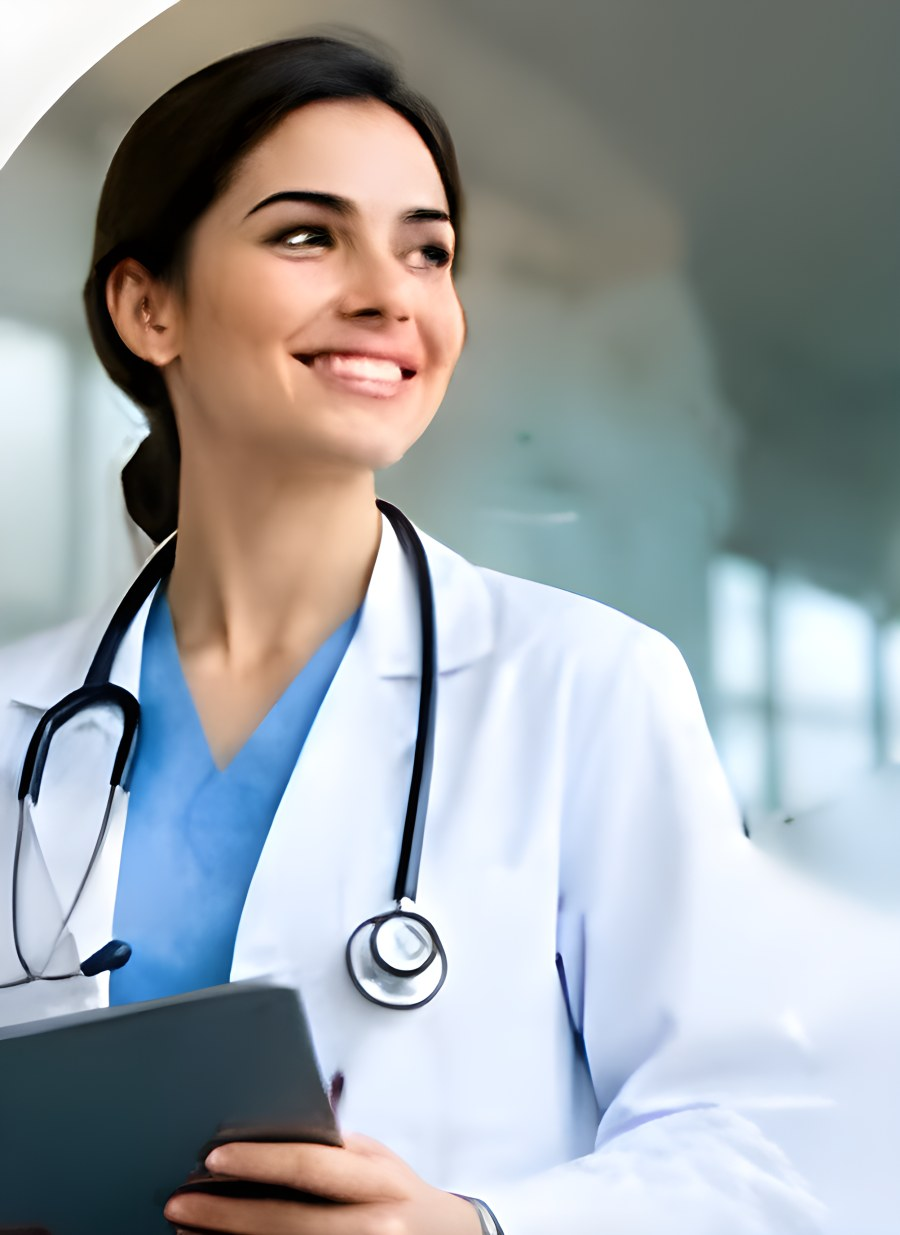
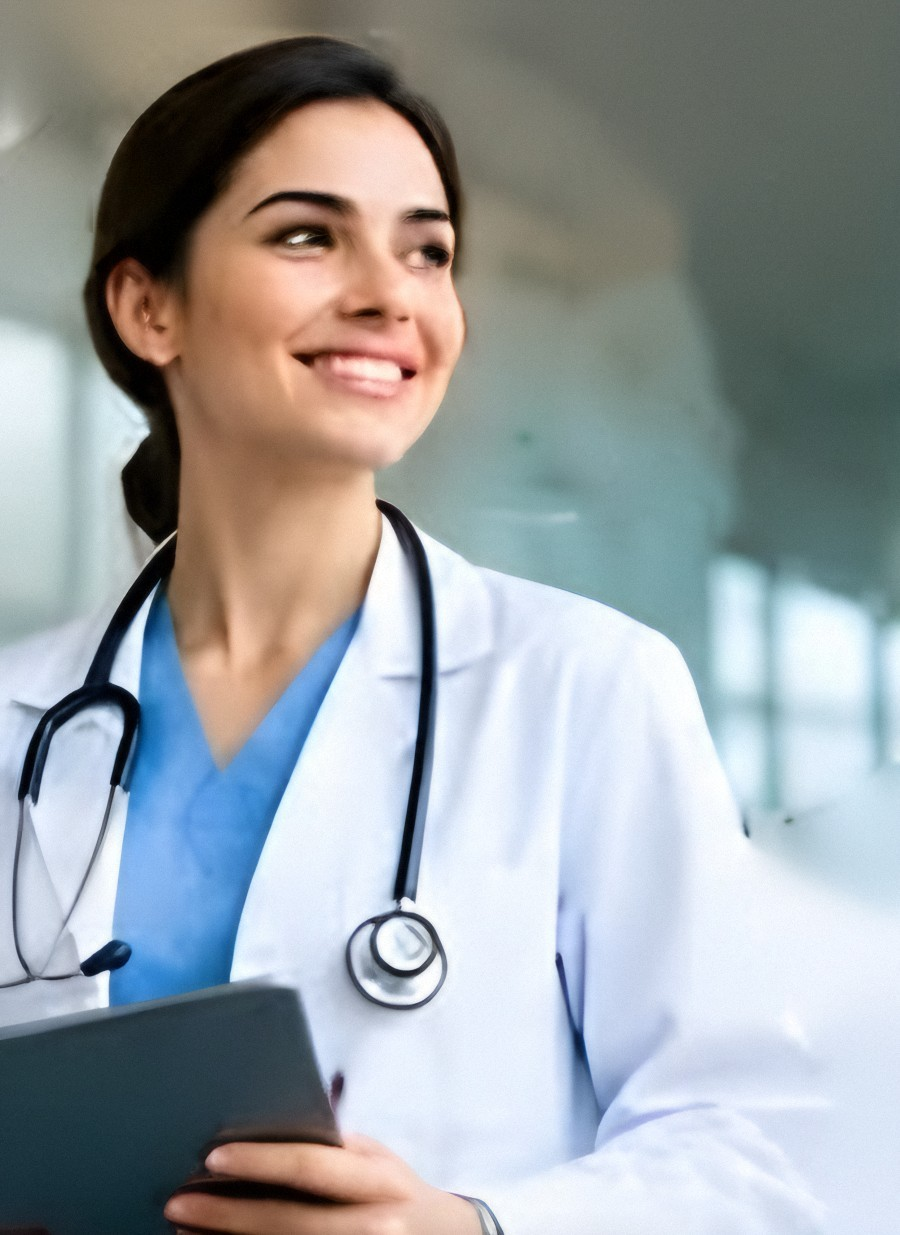
Hero: no sun, full-size photo, more natural look
Remove the rising sun, rays and decorative green shape from the hero
photo and show the whole picture at its own shape. Rebuild the photo
from a wider crop with the frame corners filled in, mixing Real-ESRGAN
with a plain enlargement plus light grain so it looks like a photograph.
Move the handwritten motto beside the photo instead of over it.

Claude-Session: https://claude.ai/code/session_01XAwcbFu3nbYNf1n8L2jrXr

Changed region(s): [[0.0, 0.0, 0.1867, 0.1538], [0.28, 0.0, 0.4044, 0.0308], [0.3111, 0.1846, 0.3422, 0.2154]]

diff --git a/src/components/Hero.css b/src/components/Hero.css
@@ -40,74 +40,28 @@
 .hstat small { color: var(--muted); font-size: 11.5px; }
 @keyframes rise { from { opacity: 0; transform: translateY(16px); } }
 
-/* ---------- photo in an arch, with a rising sun ---------- */
+/* ---------- the photo, shown whole ---------- */
 
-.hero__visual { position: relative; height: 100%; min-height: 470px; }
-.hero__arch {
-  position: absolute;
-  inset: 0 0 0 8%;
+.hero__visual { position: relative; display: flex; justify-content: flex-end; }
+.hero__photo {
+  position: relative;
+  width: min(100%, 470px);
+  aspect-ratio: 900 / 1235;
   overflow: hidden;
-  isolation: isolate;
-  border-radius: 260px 260px 24px 24px;
-  background: linear-gradient(180deg, #dceee4, #f1f8f4 70%);
-  box-shadow: 0 40px 70px -50px rgba(15, 74, 58, 0.6);
-  animation: arch-in 1.2s var(--ease-out) both;
+  border-radius: 28px;
+  background: #e9f0ee;
+  box-shadow: 0 2px 4px rgba(15, 60, 45, 0.06), 0 40px 70px -40px rgba(15, 60, 45, 0.45);
+  animation: photo-in 1.1s var(--ease-out) both;
 }
-@keyframes arch-in { from { opacity: 0; transform: translateY(24px) scale(0.98); } }
-.hero__arch img {
-  position: absolute;
-  inset: 0;
-  width: 100%;
-  height: 100%;
-  object-fit: cover;
-  object-position: 50% 12%;
-  mix-blend-mode: multiply;
-  animation: breathe-img 18s ease-in-out infinite alternate;
-}
-@keyframes breathe-img { to { transform: scale(1.03); } }
-
-/* the sun climbs up behind the clinician, in the window light of the arch */
-.hero__sun {
-  position: absolute;
-  z-index: 2;
-  right: 8%;
-  top: 9%;
-  width: 150px;
-  height: 150px;
-  border-radius: 50%;
-  background: radial-gradient(circle, #fffaf0 0%, var(--sun) 28%, rgba(255, 196, 100, 0.4) 48%, rgba(255, 190, 90, 0) 70%);
-  mix-blend-mode: screen;
-  animation: sun-rise 3.4s 0.3s var(--ease-out) both, sun-breathe 7s 3.7s ease-in-out infinite;
-}
-.hero__rays {
-  position: absolute;
-  z-index: 2;
-  right: calc(8% - 110px);
-  top: calc(9% - 110px);
-  width: 370px;
-  height: 370px;
-  border-radius: 50%;
-  background: repeating-conic-gradient(rgba(255, 220, 150, 0.3) 0deg 2.5deg, transparent 2.5deg 13deg);
-  -webkit-mask: radial-gradient(circle, transparent 18%, #000 26%, transparent 64%);
-  mask: radial-gradient(circle, transparent 18%, #000 26%, transparent 64%);
-  mix-blend-mode: screen;
-  opacity: 0;
-  animation: rays-in 2s 2.3s var(--ease-out) forwards, spin 110s linear infinite;
-}
-@keyframes sun-rise { from { opacity: 0; transform: translateY(160px) scale(0.7); } 40% { opacity: 1; } }
-@keyframes sun-breathe { 50% { transform: scale(1.07); } }
-@keyframes rays-in { to { opacity: 1; } }
-@keyframes spin { to { rotate: 360deg; } }
-
-.hero__blob { position: absolute; right: -6%; bottom: 6%; width: 46%; height: 52%; border-radius: 48% 52% 0 60%; background: var(--forest); animation: blob 14s ease-in-out infinite alternate; }
-@keyframes blob { to { border-radius: 60% 40% 10% 50%; transform: translateY(-8px); } }
-.hero__dot { position: absolute; left: 2%; bottom: 18%; width: 14px; height: 14px; border-radius: 50%; background: var(--accent); box-shadow: 0 0 0 8px rgba(31, 138, 91, 0.15); animation: float 4s ease-in-out infinite; }
+@keyframes photo-in { from { opacity: 0; transform: translateY(20px); } }
+.hero__photo img { display: block; width: 100%; height: 100%; object-fit: cover; transition: transform 1.4s var(--ease-out); }
+.hero__visual:hover .hero__photo img { transform: scale(1.02); }
 
 .hero__note {
   position: absolute;
   z-index: 3;
-  right: 3%;
-  top: 44%;
+  right: calc(min(100%, 470px) + 18px);
+  top: 18%;
   display: grid;
   justify-items: start;
   font-family: var(--font-hand);
@@ -149,18 +103,17 @@
 
 @media (max-width: 960px) {
   .hero__grid { grid-template-columns: 1fr; min-height: 0; }
-  .hero__visual { min-height: 420px; order: -1; max-width: 480px; width: 100%; justify-self: center; }
+  .hero__visual { order: -1; justify-content: center; }
+  .hero__note { display: none; }
   .facts { grid-template-columns: repeat(3, minmax(0, 1fr)); margin-top: -20px; }
 }
 @media (max-width: 560px) {
-  .hero__visual { min-height: 360px; }
-  .hero__note { font-size: 20px; right: 2%; }
+  .hero__note { display: none; }
   .facts { grid-template-columns: repeat(2, minmax(0, 1fr)); }
 }
 
 @media (prefers-reduced-motion: reduce) {
-  .hero__eyebrow, .hero__title, .hero__intro, .hero__actions, .hero__stats, .hero__arch, .hero__arch img, .hero__sun, .hero__rays,
-  .hero__blob, .hero__dot, .hero__note span, .hero__note path {
+  .hero__eyebrow, .hero__title, .hero__intro, .hero__actions, .hero__stats, .hero__photo, .hero__note span, .hero__note path {
     animation: none;
     opacity: 1;
     clip-path: none;

diff --git a/src/components/Hero.tsx b/src/components/Hero.tsx
@@ -78,11 +78,7 @@ export function Hero({ resume, isExample, onUpload }: Props) {
         </div>
 
         <div className="hero__visual" aria-hidden>
-          <span className="hero__blob" />
-          <span className="hero__dot" />
-          <div className="hero__arch">
-            <span className="hero__sun" />
-            <span className="hero__rays" />
+          <div className="hero__photo">
             <img src={hero} alt="" />
           </div>
           <p className="hero__note">

diff --git a/README.md b/README.md
@@ -1,8 +1,7 @@
 # CV → Dashboard (Occupational Rehabilitation)
 
 Candidates upload a CV (PDF, DOCX or TXT) and get an animated portfolio dashboard in a clean clinic style:
-white and mint, deep pine green, a clinician photo in an arch with a sun rising behind her, real clinic
-photos, and a handwritten motto.
+white and mint, deep pine green, a full-size clinician photo, real clinic photos, and a handwritten motto.
 
 Everything runs in the browser. The CV is read client-side and never sent to a server.
 
@@ -24,7 +23,7 @@ Everything runs in the browser. The CV is read client-side and never sent to a s
 | Section | Built from |
 | --- | --- |
 | Nav | cross-and-sun mark, name, links, expanding search (Enter jumps to and highlights the match), gear menu, **Upload CV** / **Get in touch** |
-| Hero | specialism, name (last name in green), role, summary; projects / skills / years counting up; clinician photo in an arch, motto handwritten on the window |
+| Hero | specialism, name (last name in green), role, summary; projects / skills / years counting up; full clinician photo with the motto handwritten beside it |
 | Fact strip | current role, degree, certification, city, top achievement, next step |
 | About | summary and a checklist; the reception photo with the candidate’s name on the wall and a counting experience badge |
 | Career journey | roles listed in a phone mock-up — the selected one walks through them and its bullets show beside it |
@@ -43,7 +42,6 @@ Everything runs in the browser. The CV is read client-side and never sent to a s
 | Counting numbers | hero stats, experience badge, numbers band | `useCountUp` — rAF + ease-out-expo, starts when in view; the “+” lands when the count finishes |
 | Moving, lit borders | fact, quote, skill and project cards | conic gradient on `@property --angle`, masked to a thin ring, plus a blurred halo (`GlowCard`) |
 | Hover | every card, icon and button | pointer spotlight + slight tilt, lift, photo zoom, icons fill green |
-| Rising sun | hero arch | the sun climbs into place behind the clinician and the rays start turning |
 | Handwriting | hero | each word is written in, then the heart line draws |
 | Role walk, heartbeat line, stars | career journey, mission, milestones | small React timers and CSS transitions (pause on hover) |
 
@@ -91,5 +89,6 @@ src/
 ```
 
 The photos in `src/assets/photos/` were cut from the design mock-up (printed text and logos removed) and
-enlarged with Real-ESRGAN, then sized for high-density screens. For the sharpest page, swap in original
+enlarged with Real-ESRGAN, then sized for high-density screens. The hero photo mixes the Real-ESRGAN result
+with a plain enlargement and a little grain so it reads as a photograph rather than an airbrushed render. For the sharpest page, swap in original
 high-resolution photos with the same file names.
